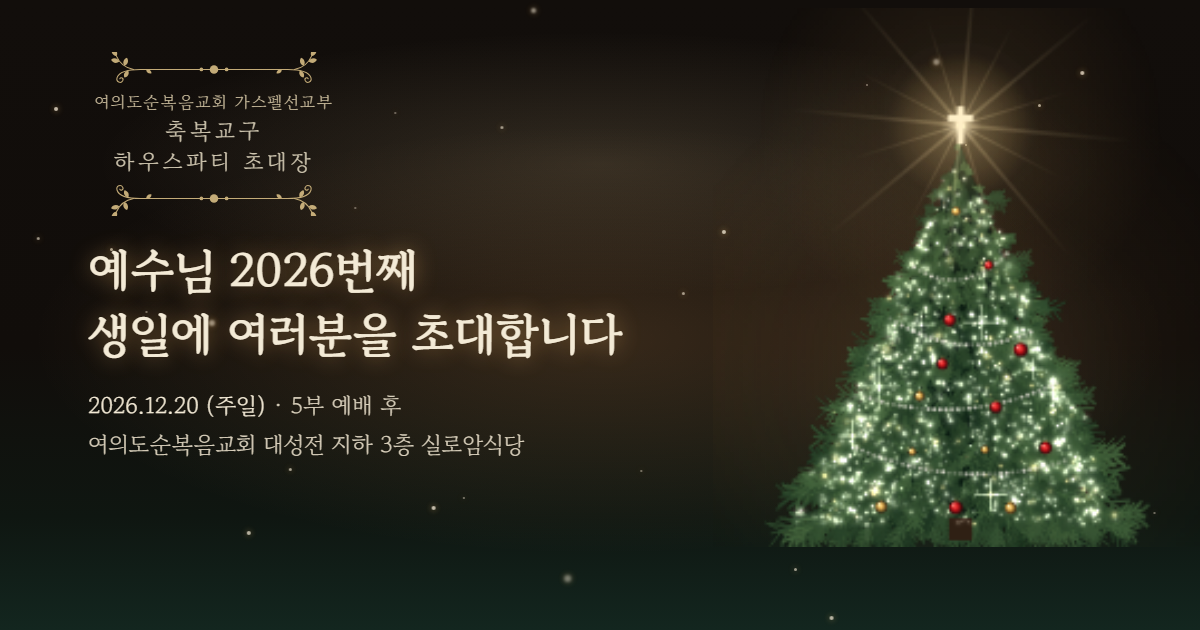
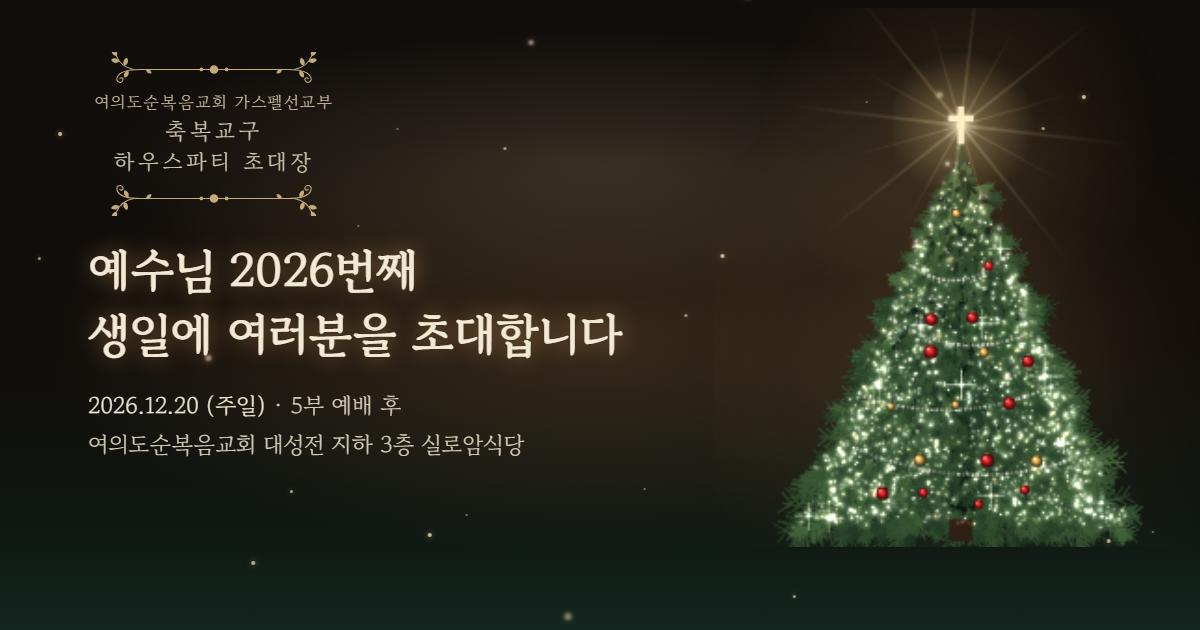
초대장 업데이트 2026-11-25 18:19

Changed region(s): [[0.6475, 0.2714, 0.9558, 0.8746], [0.4625, 0.9651, 0.4933, 0.9952], [0.4625, 0.9048, 0.4933, 0.9349]]

diff --git a/index.html b/index.html
@@ -9,7 +9,7 @@
 <meta property="og:title" content="축복교구 하우스파티 · 예수님 2026번째 생일에 여러분을 초대합니다">
 <meta property="og:description" content="2026.12.20(주일) 5부 예배 후, 여의도순복음교회 대성전 지하 3층 실로암식당">
 <meta property="og:url" content="https://channy33.github.io/house-party/">
-<meta property="og:image" content="https://channy33.github.io/house-party/og.png?v=06e36ca9">
+<meta property="og:image" content="https://channy33.github.io/house-party/og.png?v=971cbdb6">
 <meta property="og:image:width" content="1200">
 <meta property="og:image:height" content="630">
 <meta property="og:image:alt" content="축복교구 하우스파티 · 예수님 2026번째 생일에 여러분을 초대합니다">
@@ -295,8 +295,8 @@
   .tree-wrap {
     position: relative;
     z-index: 2;
-    height: clamp(12.5rem, calc(100vh - 29rem), 24rem);
-    height: clamp(12.5rem, calc(100svh - 29rem), 24rem);
+    height: clamp(15rem, calc(100vh - 24.5rem), 24.3rem);
+    height: clamp(15rem, calc(100svh - 24.5rem), 24.3rem);
     aspect-ratio: .74;
     max-width: 74%;
     margin-top: .7rem;
@@ -346,15 +346,6 @@
     word-break: keep-all;
   }
   .scripture .ref { font-size: .76rem; letter-spacing: .1em; color: var(--muted); }
-  .scripture .ref--en { font-family: var(--script); font-style: italic; font-size: .84rem; letter-spacing: .08em; }
-  .scripture .en {
-    font-family: var(--script);
-    font-style: italic;
-    font-size: .86rem;
-    line-height: 1.55;
-    color: #a89f8a;
-    margin-top: .15rem;
-  }
   /* 말씀: 켜기 전에는 어둠 속에 희미하게, 십자가 빛이 퍼지면 뒤따라 금빛으로 밝아진다 */
   .scripture p, .scripture .ref {
     transition: color 1.8s ease 1s, text-shadow 1.8s ease 1s;
@@ -366,7 +357,6 @@
     color: #fff1cf;
     text-shadow: 0 0 12px rgba(255, 200, 110, .55), 0 0 2px rgba(255, 220, 160, .5);
   }
-  .is-lit .scripture .en { color: #e9d7ad; text-shadow: 0 0 10px rgba(255, 200, 110, .35); }
   .is-lit .scripture .ref { color: #e8c27a; }
   /* 폰에서 '동작 줄이기'(아이폰)·'애니메이션 제거'(갤럭시)나 절전 모드를 켜 두면 이 조건이 걸린다.
      눈과 반짝임은 은은한 배경이라 그대로 두고, 옆으로 흔들리는 것만 멈춘다. */
@@ -405,8 +395,8 @@
     0%, 100% { transform: translate(var(--tx), 0); }
     50%      { transform: translate(var(--tx), 4px); }
   }
-  /* 아주 짧은 화면에서는 가운데 '이사야 9장 6절'을 가리지 않게 오른쪽 아래 구석으로 */
-  @media (max-height: 640px) {
+  /* 짧은 화면에서는 가운데 '이사야 9장 6절'을 가리지 않게 오른쪽 아래 구석으로 */
+  @media (max-height: 780px) {
     .to-invite { --tx: 0; left: auto; right: max(14px, env(safe-area-inset-right, 0px)); font-size: .8rem; padding: .4rem .85rem; }
   }
   @media (prefers-reduced-motion: reduce) { .to-invite.is-on { animation: none; } }
@@ -850,8 +840,6 @@
     <blockquote class="scripture">
       <p class="ko">“이는 한 아기가 우리에게 났고 한 아들을 우리에게 주신 바 되었는데 그의 어깨에는 정사를 메었고 그의 이름은 기묘자라, 모사라, 전능하신 하나님이라, 영존하시는 아버지라, 평강의 왕이라 할 것임이라”</p>
       <p class="ref">이사야 9장 6절</p>
-      <p class="en">“For a child is born to us, a son is given to us. The government will rest on his shoulders. And he will be called: Wonderful Counselor, Mighty God, Everlasting Father, Prince of Peace.”</p>
-      <p class="ref ref--en">Isaiah 9:6</p>
     </blockquote>
   </section>
   <!-- ───────── 초대장 ───────── -->
